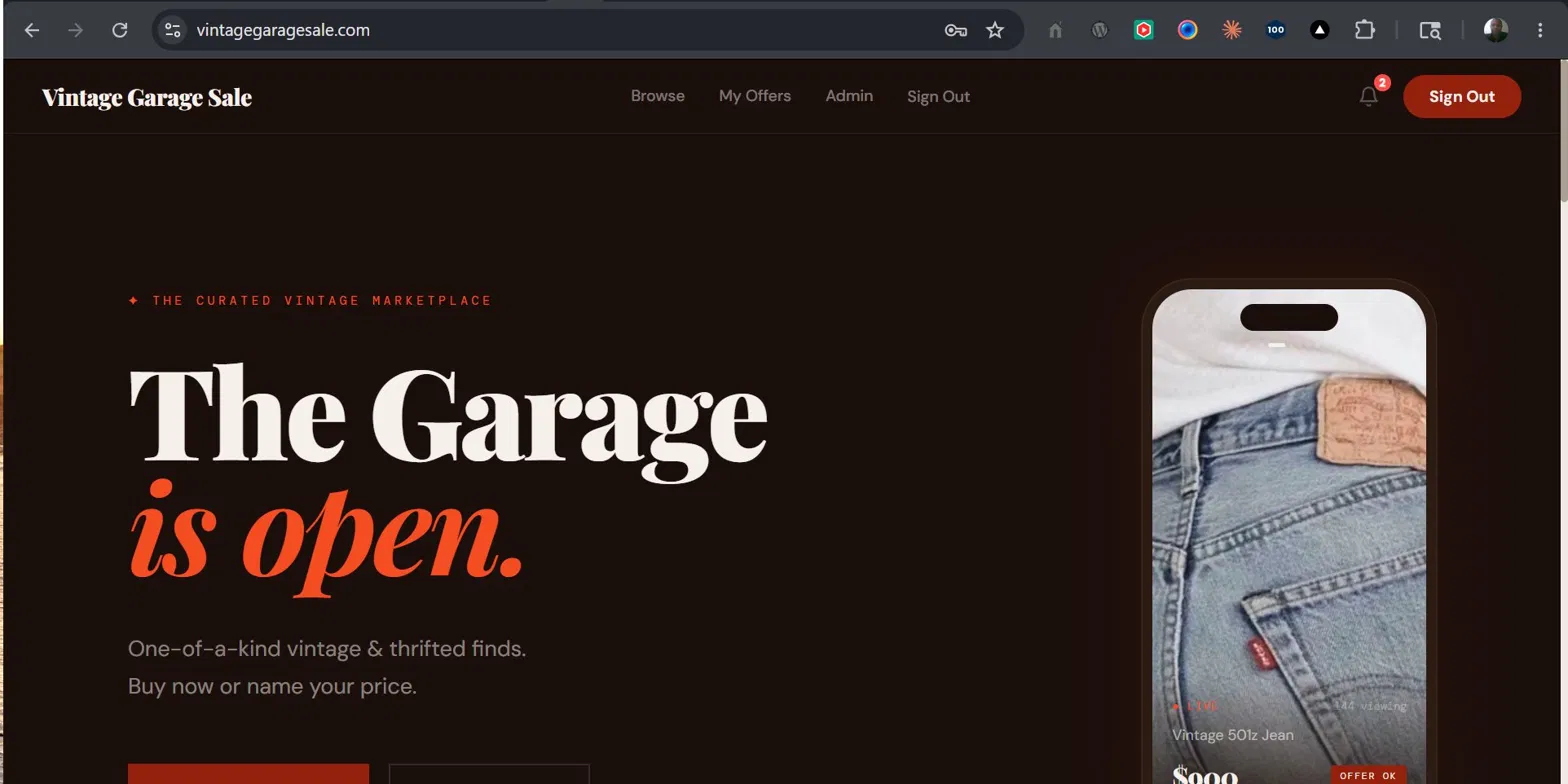
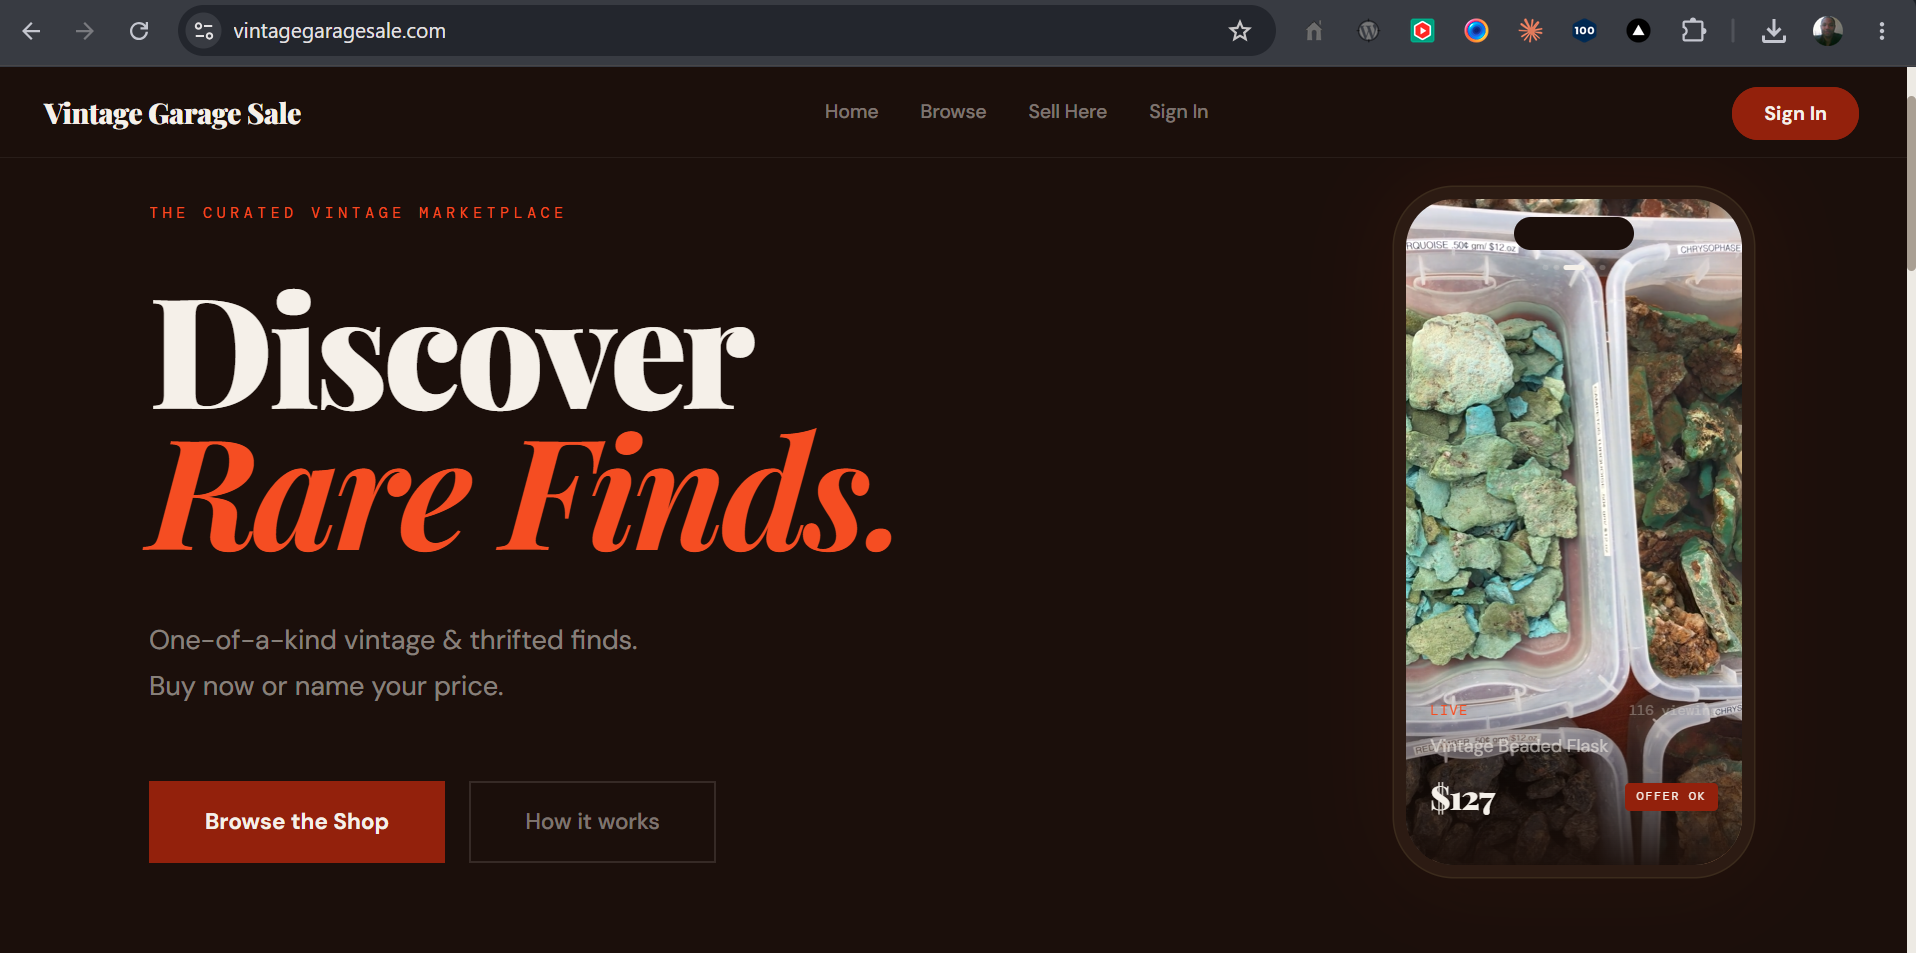
VideoShowcase: remove CTA hint, fix YouTube URL, clean spacing

diff --git a/src/app/components/VideoShowcase.tsx b/src/app/components/VideoShowcase.tsx
@@ -1,8 +1,8 @@
 'use client'
 
 // ── Video config ─────────────────────────────────────────────────────────────
-const SHOW_VIDEO  = false                        // ← set false to hide the section
-const YOUTUBE_ID  = 'YOUR_YOUTUBE_ID_HERE'      // ← paste your new YouTube video ID here
+const SHOW_VIDEO      = true                        // ← set false to hide section
+const YOUTUBE_ID      = 'ImELyyXCo8g'              // ← YouTube video ID
 const MUX_PLAYBACK_ID = process.env.NEXT_PUBLIC_SHOWCASE_MUX_PLAYBACK_ID || ''
 // ─────────────────────────────────────────────────────────────────────────────
 
@@ -38,67 +38,251 @@ export default function VideoShowcase({ mode = 'embed' }: Props) {
             <em style={{ fontStyle: 'italic', color: 'var(--coral)' }}>inside your business.</em>
           </h2>
           <p style={{ fontFamily: 'var(--sans)', fontSize: '0.9rem', color: 'rgba(247,245,240,0.45)', lineHeight: 1.75 }}>
-            In 3 minutes, we'll show you exactly how we implement AI inside a real business — the tools, the workflow, the results.
+            In 3 minutes, we'll show you exactly how we implement AI inside a real business.
           </p>
         </div>
       </section>
     )
   }
 
-  // ── mode === 'embed' — video loads directly, no play button ──────
+  // ── mode === 'embed' ──────────────────────────────────────────────────────
   return (
-    <section id="work" style={{ background: 'var(--ink)', padding: '7rem 2.5rem', borderTop: '1px solid var(--border-dark)', borderBottom: '1px solid var(--border-dark)' }}>
+    <section id="work">
 
-      <div id="work-header" style={{ display: 'grid', gridTemplateColumns: '1fr 1fr', gap: '4rem', alignItems: 'end', marginBottom: '3.5rem' }}>
-        <div>
-          <span style={{ fontFamily: 'var(--mono)', fontSize: '0.68rem', fontWeight: 300, letterSpacing: '0.2em', textTransform: 'uppercase', color: 'var(--coral)', display: 'block', marginBottom: '1rem' }}>See It In Action</span>
-          <h2 style={{ fontFamily: 'var(--serif)', fontSize: 'clamp(2rem, 3.5vw, 3rem)', fontWeight: 400, lineHeight: 1.1, color: 'var(--page)' }}>
-            Watch how we build AI<br />
-            <em style={{ fontStyle: 'italic', color: 'var(--coral)' }}>inside real businesses.</em>
+      <div className="vs-rule" />
+
+      <div className="vs-outer">
+
+        {/* ── Left: text ── */}
+        <div className="vs-text">
+          <span className="vs-eyebrow">See It In Action</span>
+          <h2 className="vs-heading">
+            Built by us.<br />
+            <em>Owned by you.</em>
           </h2>
+          <p className="vs-body">
+            Watch how we go from strategy call to a fully deployed AI system
+            running inside a real business — no fluff, just the work.
+          </p>
         </div>
-        <p style={{ fontFamily: 'var(--sans)', fontSize: '0.88rem', color: 'rgba(247,245,240,0.42)', lineHeight: 1.75, alignSelf: 'center' }}>
-          A walkthrough of our process — from the first strategy call to a fully deployed AI system running inside a client's business. No fluff, just the actual work.
-        </p>
-      </div>
 
-      {/* Video — loads directly, no play button step */}
-      <div style={{ position: 'relative', border: '1px solid var(--border-dark)', overflow: 'hidden', aspectRatio: '16 / 9', background: 'var(--ink-2)' }}>
-        {hasMux && (
-          <video controls playsInline style={{ width: '100%', height: '100%', objectFit: 'cover' }}>
-            <source src={`https://stream.mux.com/${MUX_PLAYBACK_ID}.m3u8`} type="application/x-mpegURL" />
-            <source src={`https://stream.mux.com/${MUX_PLAYBACK_ID}/high.mp4`} type="video/mp4" />
-          </video>
-        )}
+        {/* ── Right: video ── */}
+        <div className="vs-video-col">
+          <div className="vs-corner vs-corner-tl" />
+          <div className="vs-corner vs-corner-tr" />
+          <div className="vs-corner vs-corner-bl" />
+          <div className="vs-corner vs-corner-br" />
 
-        {!hasMux && hasYoutube && (
-          <iframe
-            src={`https://www.youtube-nocookie.com/embed/${YOUTUBE_ID}?rel=0&modestbranding=1&controls=1&color=white`}
-            allow="accelerometer; autoplay; clipboard-write; encrypted-media; gyroscope; picture-in-picture"
-            allowFullScreen
-            style={{ position: 'absolute', inset: 0, width: '100%', height: '100%', border: 'none' }}
-            title="DoneForYouAI Process Overview"
-          />
-        )}
-
-        {!hasVideo && (
-          <div style={{ position: 'absolute', inset: 0, display: 'flex', flexDirection: 'column', alignItems: 'center', justifyContent: 'center', gap: '1rem' }}>
-            <span style={{ fontFamily: 'var(--mono)', fontSize: '0.68rem', fontWeight: 300, letterSpacing: '0.1em', textTransform: 'uppercase', color: 'rgba(247,245,240,0.25)' }}>
-              Set YOUTUBE_ID at the top of this file
-            </span>
+          <div className="vs-frame">
+            {hasMux && (
+              <video playsInline className="vs-player">
+                <source src={`https://stream.mux.com/${MUX_PLAYBACK_ID}.m3u8`} type="application/x-mpegURL" />
+                <source src={`https://stream.mux.com/${MUX_PLAYBACK_ID}/high.mp4`} type="video/mp4" />
+              </video>
+            )}
+            {!hasMux && hasYoutube && (
+              <iframe
+                src={`https://www.youtube-nocookie.com/embed/${YOUTUBE_ID}?rel=0&modestbranding=1&controls=0&disablekb=1`}
+                allow="accelerometer; autoplay; clipboard-write; encrypted-media; gyroscope; picture-in-picture"
+                allowFullScreen
+                className="vs-player"
+                title="DoneForYouAI — Welcome"
+              />
+            )}
+            {!hasVideo && (
+              <div className="vs-placeholder">
+                <span>Set YOUTUBE_ID at the top of this file</span>
+              </div>
+            )}
           </div>
-        )}
+
+          <div className="vs-caption">
+            <span className="vs-caption-label">DoneForYouAI · Welcome</span>
+            <span className="vs-caption-url">doneforyouai.com</span>
+          </div>
+        </div>
+
       </div>
 
-      <div style={{ display: 'flex', alignItems: 'center', justifyContent: 'space-between', marginTop: '1rem', padding: '1rem 0', borderTop: '1px solid var(--border-dark)' }}>
-        <span style={{ fontFamily: 'var(--mono)', fontSize: '0.62rem', fontWeight: 300, letterSpacing: '0.1em', textTransform: 'uppercase', color: 'rgba(247,245,240,0.25)' }}>DoneForYouAI · Process Overview</span>
-        <span style={{ fontFamily: 'var(--mono)', fontSize: '0.62rem', color: 'var(--coral)', letterSpacing: '0.08em' }}>doneforyouai.com</span>
-      </div>
+      <div className="vs-rule" />
 
       <style>{`
-        @media (max-width: 680px) {
-          #work { padding: 4rem 1.25rem !important; }
-          #work-header { grid-template-columns: 1fr !important; gap: 1.5rem !important; }
+        #work {
+          background: var(--ink);
+        }
+
+        .vs-rule {
+          width: 100%;
+          height: 1px;
+          background: var(--border-dark);
+        }
+
+        .vs-outer {
+          display: grid;
+          grid-template-columns: 1fr 1.6fr;
+          align-items: center;
+          gap: 4rem;
+          max-width: 1200px;
+          margin: 0 auto;
+          padding: 5rem 2.5rem;
+        }
+
+        .vs-text {
+          display: flex;
+          flex-direction: column;
+        }
+
+        .vs-eyebrow {
+          font-family: var(--mono);
+          font-size: 0.65rem;
+          font-weight: 300;
+          letter-spacing: 0.22em;
+          text-transform: uppercase;
+          color: var(--coral);
+          display: block;
+          margin-bottom: 1.25rem;
+        }
+
+        .vs-heading {
+          font-family: var(--serif);
+          font-size: clamp(1.9rem, 3vw, 2.8rem);
+          font-weight: 400;
+          line-height: 1.1;
+          color: var(--page);
+          margin: 0 0 1.5rem 0;
+        }
+
+        .vs-heading em {
+          font-style: italic;
+          color: var(--coral);
+        }
+
+        .vs-body {
+          font-family: var(--sans);
+          font-size: 0.88rem;
+          color: rgba(247,245,240,0.42);
+          line-height: 1.8;
+          margin: 0;
+        }
+
+        .vs-video-col {
+          position: relative;
+          padding: 10px;
+        }
+
+        .vs-corner {
+          position: absolute;
+          width: 14px;
+          height: 14px;
+          border-color: var(--coral);
+          border-style: solid;
+          opacity: 0.5;
+        }
+        .vs-corner-tl { top: 0; left: 0; border-width: 1px 0 0 1px; }
+        .vs-corner-tr { top: 0; right: 0; border-width: 1px 1px 0 0; }
+        .vs-corner-bl { bottom: 22px; left: 0; border-width: 0 0 1px 1px; }
+        .vs-corner-br { bottom: 22px; right: 0; border-width: 0 1px 1px 0; }
+
+        .vs-frame {
+          position: relative;
+          width: 100%;
+          padding-bottom: 56.25%;
+          height: 0;
+          overflow: hidden;
+          background: var(--ink);
+          border: 1px solid var(--border-dark);
+        }
+
+        .vs-player {
+          position: absolute !important;
+          inset: 0 !important;
+          width: 100% !important;
+          height: 100% !important;
+          border: none !important;
+          display: block !important;
+        }
+
+        .vs-placeholder {
+          position: absolute;
+          inset: 0;
+          display: flex;
+          align-items: center;
+          justify-content: center;
+        }
+
+        .vs-placeholder span {
+          font-family: var(--mono);
+          font-size: 0.65rem;
+          letter-spacing: 0.1em;
+          text-transform: uppercase;
+          color: rgba(247,245,240,0.18);
+        }
+
+        .vs-caption {
+          display: flex;
+          align-items: center;
+          justify-content: space-between;
+          margin-top: 0.75rem;
+          padding-top: 0.75rem;
+          border-top: 1px solid var(--border-dark);
+        }
+
+        .vs-caption-label {
+          font-family: var(--mono);
+          font-size: 0.6rem;
+          font-weight: 300;
+          letter-spacing: 0.1em;
+          text-transform: uppercase;
+          color: rgba(247,245,240,0.18);
+        }
+
+        .vs-caption-url {
+          font-family: var(--mono);
+          font-size: 0.6rem;
+          color: var(--coral);
+          letter-spacing: 0.08em;
+          opacity: 0.7;
+        }
+
+        /* ── MOBILE: edge-to-edge video, stacked layout ── */
+        @media (max-width: 768px) {
+          .vs-outer {
+            grid-template-columns: 1fr;
+            padding: 0;
+            gap: 0;
+            max-width: 100%;
+          }
+
+          .vs-video-col {
+            order: -1;
+            padding: 0;
+            width: 100%;
+          }
+
+          .vs-corner { display: none; }
+
+          .vs-frame {
+            border-left: none;
+            border-right: none;
+            border-top: none;
+          }
+
+          .vs-caption {
+            padding: 0.6rem 1.25rem;
+            margin-top: 0;
+          }
+
+          .vs-text {
+            padding: 2rem 1.25rem 2.5rem;
+          }
+
+          .vs-heading {
+            font-size: clamp(1.5rem, 6vw, 1.9rem);
+          }
+
+          .vs-body {
+            font-size: 0.85rem;
+          }
         }
       `}</style>
     </section>

diff --git a/src/app/api/book-appointment/route.ts b/src/app/api/book-appointment/route.ts
@@ -14,6 +14,8 @@ export async function POST(req: NextRequest) {
       return NextResponse.json({ error: 'Missing required fields' }, { status: 400 })
     }
 
+    const firstName = name.split(' ')[0]
+
     const auth = new google.auth.GoogleAuth({
       credentials: {
         client_email: process.env.GOOGLE_SERVICE_ACCOUNT_EMAIL,
@@ -48,7 +50,7 @@ export async function POST(req: NextRequest) {
     })
 
     await resend.emails.send({
-      from: 'DoneForYouAI.com <[email redacted]>',
+      from: 'DoneForYouAI.com <[email redacted]>',
       to: '[email redacted]',
       subject: `New Strategy Call Booked — ${name}`,
       html: `
@@ -63,16 +65,16 @@ export async function POST(req: NextRequest) {
     })
 
     await resend.emails.send({
-      from: 'DoneForYouAI.com <[email redacted]>',
+      from: 'DoneForYouAI.com <[email redacted]>',
       to: email,
       subject: 'Your Strategy Call is Confirmed — Done For You AI',
       html: `
-        <h2>Hi ${name},</h2>
-        <p>Great news — your free 30-minute strategy call with DoneForYouAI is confirmed!</p>
+        <h2>Hi ${firstName},</h2>
+        <p>Great news — your free 30-minute strategy call with Done For You AI is confirmed!</p>
         <p><strong>Your call is scheduled for: ${startLabel}</strong></p>
         <p>We're excited to learn about your business and map out exactly where AI can move the needle for you.</p>
         <br/>
-        <p>Talk soon,<br/>The DFYAI Team<br/>doneforyouai.com</p>
+        <p>Talk soon,<br/>DFYAI & Team<br/>doneforyouai.com</p>
       `,
     })
 

diff --git a/src/app/components/Hero.tsx b/src/app/components/Hero.tsx
@@ -261,7 +261,8 @@ export default function Hero() {
       </div>
 
       {/* Left */}
-      <div style={{ position: 'relative', zIndex: 1, minWidth: 0 }}>
+      {/* Left */}
+      <div className="hero-left" style={{ position: 'relative', zIndex: 1, minWidth: 0 }}>
         <div className="animate-fade-up delay-1" style={{
           display: 'inline-flex', alignItems: 'center', gap: '0.6rem',
           fontFamily: 'var(--mono)', fontSize: '0.68rem', fontWeight: 300,
@@ -329,9 +330,15 @@ export default function Hero() {
         @media (max-width: 768px) {
           section {
             grid-template-columns: 1fr !important;
-            padding: 100px 1.5rem 60px 1.5rem !important;
+            padding: 130px 1.5rem 60px 1.5rem !important;
             gap: 2rem !important;
             align-items: start !important;
+          }
+          .hero-left {
+            padding-top: 1.5rem;
+          }
+          .hero-left {
+            padding-top: 1.5rem;
           }
           .hero-right {
             padding-top: 0 !important;

diff --git a/src/app/page.tsx b/src/app/page.tsx
@@ -1,10 +1,10 @@
 import Navbar from './components/Navbar'
 import Hero from './components/Hero'
 import Ticker from './components/Ticker'
+import VideoShowcase from './components/VideoShowcase'
 import Problem from './components/Problem'
 import Services from './components/Services'
 // import FeaturedAndPulse from './components/FeaturedAndPulse'
-import VideoShowcase from './components/VideoShowcase'
 import Process from './components/Process'
 import Testimonials from './components/Testimonials'
 import Audience from './components/Audience'
@@ -19,10 +19,10 @@ export default function Home() {
       <main>
         <Hero />
         <Ticker />
+        <VideoShowcase mode="embed" />   {/* ← moved here, directly under Ticker */}
         <Problem />
         <Services />
         {/* <FeaturedAndPulse /> */}
-        <VideoShowcase mode="embed" />
         <Process />
         <Testimonials />
         <Audience />